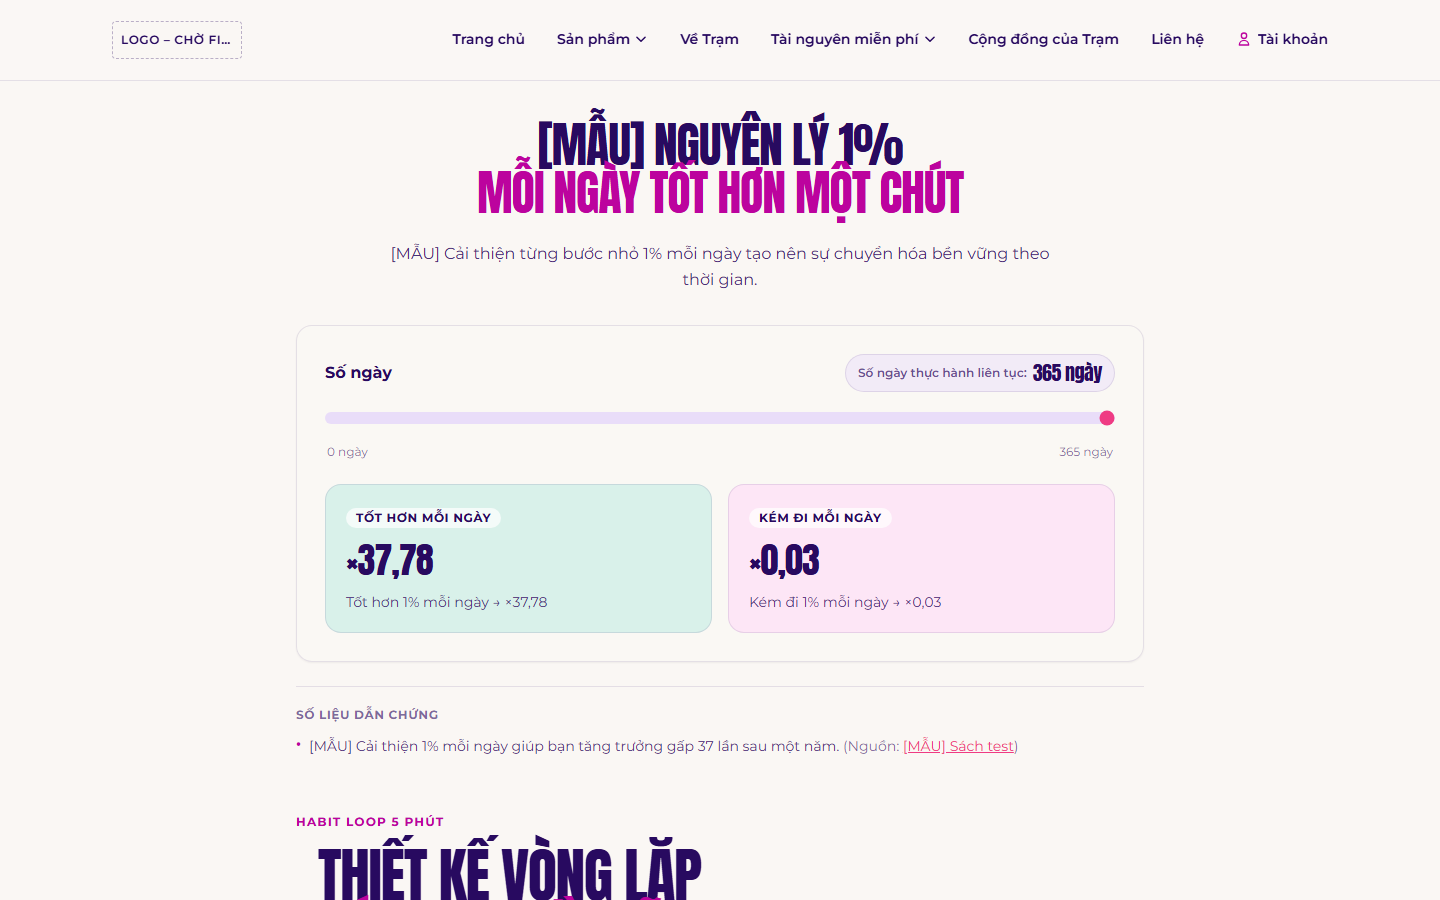
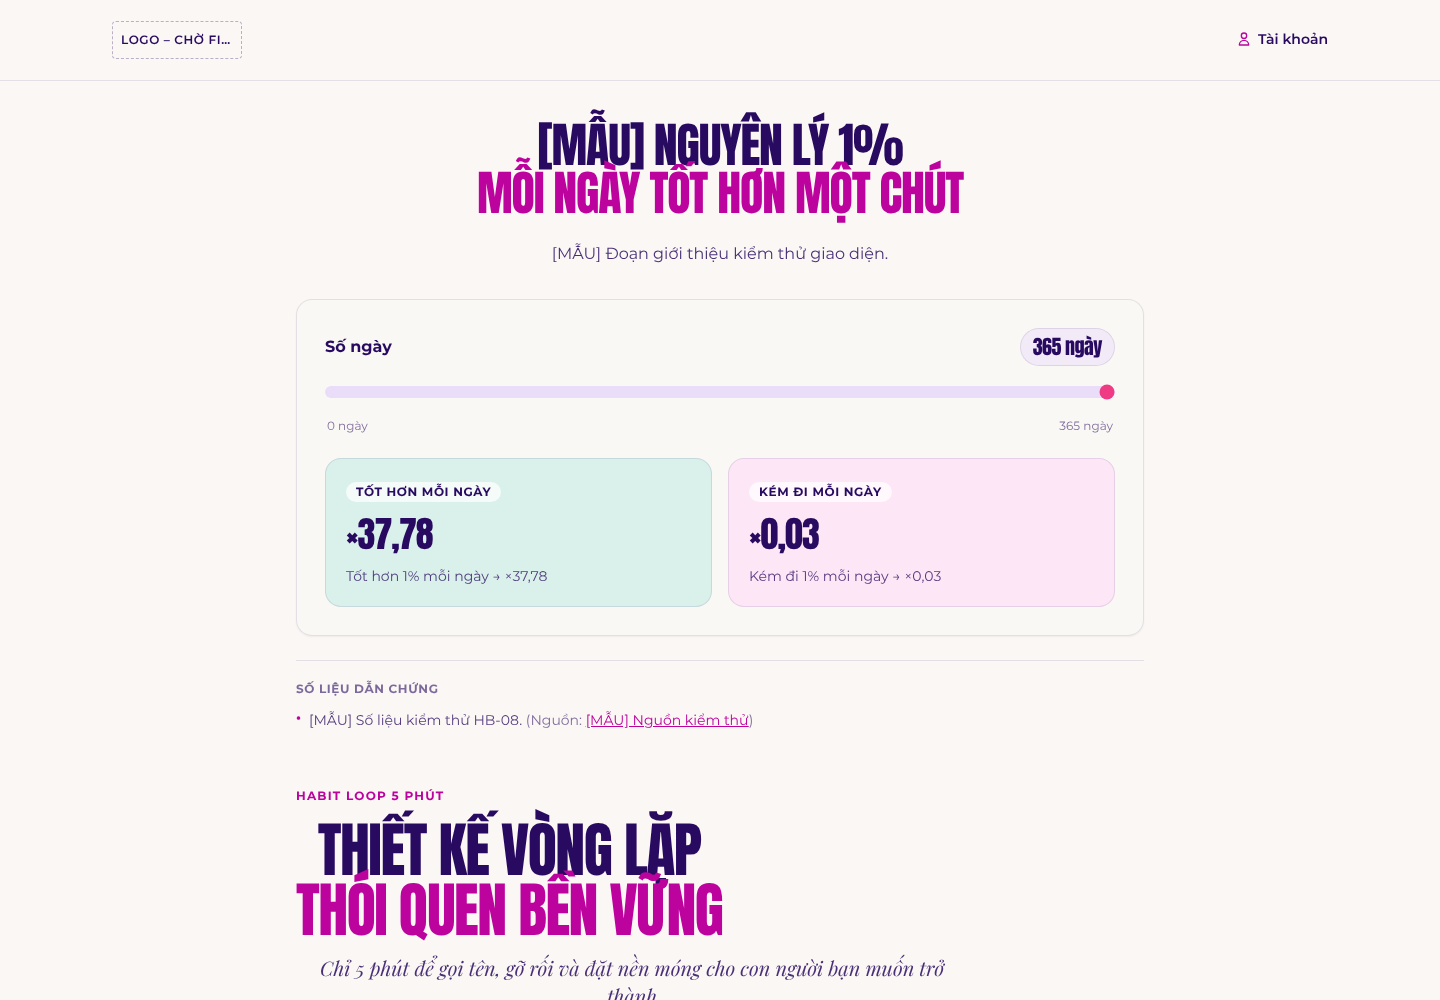
test(habit): fake fact data in one percent tests; e2e restores the global on an empty DB (HB-08c)
Claude-Session: https://claude.ai/code/session_01978PJeUvuT4vxsJ7RQcCQr

diff --git a/tests/e2e/habit-one-percent.test.ts b/tests/e2e/habit-one-percent.test.ts
@@ -62,9 +62,9 @@ test.describe('HB-08: Nguyên lý 1% thanh kéo trên /habit/5-phut', () => {
             maxDays: 365,
             facts: [
               {
-                statement: 'Cải thiện 1% mỗi ngày trong 1 năm giúp bạn tốt hơn 37 lần.',
-                sourceLabel: 'Atomic Habits (James Clear)',
-                sourceUrl: 'https://jamesclear.com/atomic-habits',
+                statement: '[MẪU] Số liệu kiểm thử HB-08.',
+                sourceLabel: '[MẪU] Nguồn kiểm thử',
+                sourceUrl: 'https://example.com/nguon-mau',
               },
             ],
           },
@@ -85,9 +85,9 @@ test.describe('HB-08: Nguyên lý 1% thanh kéo trên /habit/5-phut', () => {
 
       // Dẫn chứng và link nguồn
       await expect(guestPage.getByTestId('one-percent-facts')).toBeVisible()
-      const sourceLink = guestPage.getByRole('link', { name: 'Atomic Habits (James Clear)' })
+      const sourceLink = guestPage.getByRole('link', { name: '[MẪU] Nguồn kiểm thử' })
       await expect(sourceLink).toBeVisible()
-      expect(await sourceLink.getAttribute('href')).toBe('https://jamesclear.com/atomic-habits')
+      expect(await sourceLink.getAttribute('href')).toBe('https://example.com/nguon-mau')
 
       // Thanh kéo slider
       const slider = guestPage.getByRole('slider')
@@ -113,13 +113,16 @@ test.describe('HB-08: Nguyên lý 1% thanh kéo trên /habit/5-phut', () => {
       expect(hasHorizontalOverflow).toBe(false)
     } finally {
       // Dọn dẹp: khôi phục nguyên trạng global habitJourneyContent
-      if (previousJourneyContent) {
-        await page.request
-          .post('/api/globals/habitJourneyContent', {
-            data: previousJourneyContent,
-          })
-          .catch(() => {})
-      }
+      // Khôi phục cả khi bản cũ chưa có onePercent (DB trống): ghi rõ onePercent cũ hoặc rỗng,
+      // nếu không tiêu đề / số liệu test sẽ còn lại trong global (HB-08c).
+      await page.request
+        .post('/api/globals/habitJourneyContent', {
+          data: {
+            ...(previousJourneyContent || {}),
+            onePercent: previousJourneyContent?.onePercent ?? { title: '', intro: null, facts: [] },
+          },
+        })
+        .catch(() => {})
       await guestContext.close()
     }
   })

diff --git a/docs/HUONG_DAN_CMS.md b/docs/HUONG_DAN_CMS.md
@@ -931,7 +931,7 @@ Bạn có 3 cách rất dễ dàng:
      - **Tỷ lệ cải thiện mỗi ngày (%)**: Mặc định là `1%` (cho phép điều chỉnh từ `0.1%` đến `10%`).
      - **Số ngày tối đa của biểu đồ**: Mặc định là `365` ngày (cho phép điều chỉnh từ `7` đến `1000` ngày trên thanh kéo).
      - **Số liệu dẫn chứng (`facts`)**: Danh sách các số liệu / dẫn chứng khoa học:
-       - **Số liệu / Dẫn chứng** (bắt buộc): Câu khẳng định hoặc số liệu khoa học (ví dụ: _Cải thiện 1% mỗi ngày sau 1 năm giúp bạn tốt hơn 37 lần_).
+       - **Số liệu / Dẫn chứng** (bắt buộc): Câu khẳng định hoặc số liệu đã kiểm chứng. Chỉ nhập khi có nguồn thật ở ô bên dưới; không có nguồn thì không thêm.
        - **Nguồn dẫn chứng** (BẮT BUỘC): Tên tài liệu / công trình nghiên cứu chứng minh cho số liệu. Hệ thống bắt buộc phải có nguồn kiểm chứng mới cho lưu; không có nguồn thì không thể thêm.
        - **Liên kết kiểm chứng**: Đường dẫn tới tài liệu kiểm chứng (tùy chọn; nếu có sẽ hiển thị link mở tab mới an toàn cho người đọc tra cứu).
 
